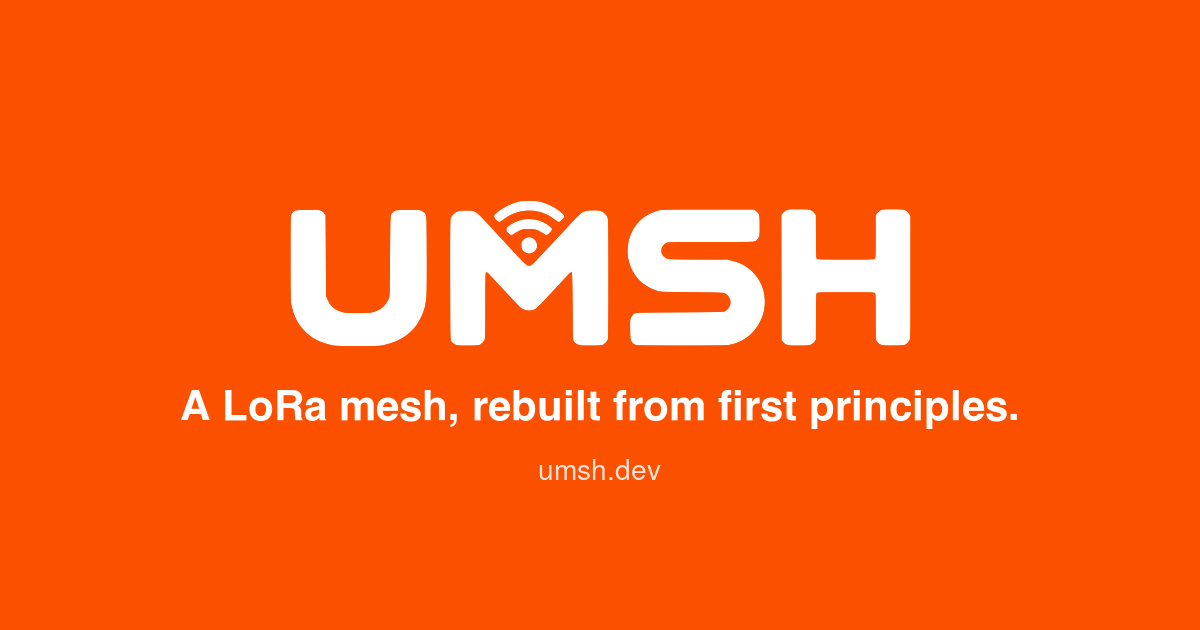
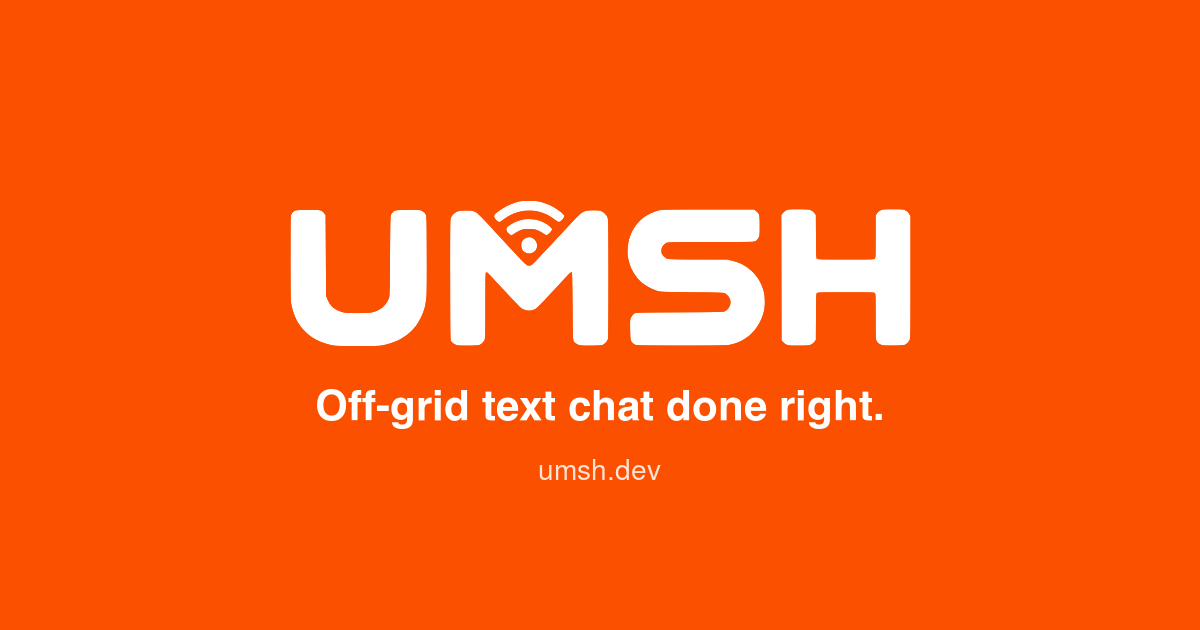
site: keep the hero tagline breaking between its two halves
Safari breaks inside an inline span carrying white-space: nowrap here,
which put "done" at the end of the first line and stranded "right." on
the second. Each half is now an inline-block as well, so it is placed on
a line as a unit and cannot be broken into; the nowrap stays because an
auto-width inline-block would otherwise shrink to fit and wrap
internally. Renamed the class to .tagline__part — a shared utility named
.nowrap that also sets display would be a trap for the next use, and the
tagline was its only caller.

Also brings the social card in line with the current tagline.

LLM: Claude Opus 5

Changed region(s): [[0.1542, 0.6032, 0.8633, 0.6937]]

diff --git a/site/sass/site.scss b/site/sass/site.scss
@@ -432,7 +432,13 @@ pre {
   margin: 0 0 0.85rem;
 }
 
-.nowrap {
+// Each half of the tagline is an atomic box, so the space between them is the
+// only legal break. `white-space: nowrap` alone is not enough: Safari breaks
+// inside such a span here, stranding "right." on a line of its own. An
+// inline-block is placed on a line as a unit, and the nowrap keeps its
+// shrink-to-fit width at max-content so nothing wraps inside it either.
+.tagline__part {
+  display: inline-block;
   white-space: nowrap;
 }
 

diff --git a/site/content/_index.md b/site/content/_index.md
@@ -6,7 +6,7 @@ template = "index.html"
 [extra]
 # Both halves are unbreakable, so the only place the tagline can wrap is
 # between them: either one line, or "done right." on a line of its own.
-tagline = '<span class="nowrap">Off-grid text chat</span> <span class="nowrap">done right.</span>'
+tagline = '<span class="tagline__part">Off-grid text chat</span> <span class="tagline__part">done right.</span>'
 lede = """
 Long-range radio instead of cell towers. Group chats that cover a region, with \
 replies, reactions, and edits. And encryption that was the starting point of \
